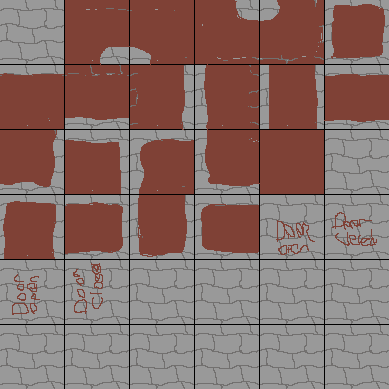
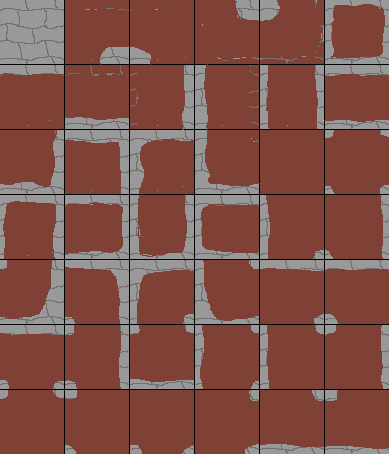
walls!

diff --git a/LD28/src/com/ionprogramming/ld28/level/Map.java b/LD28/src/com/ionprogramming/ld28/level/Map.java
@@ -8,13 +8,232 @@ public class Map {
 
 	public static int[][] map;
 	
-	public static int[][] map1 = new int[][] {{1, 2, 2, 2}, {1, 2, 1, 2}, {2, 2, 2, 2}, {2, 2, 2, 2}};
+	public static int[][] map1 = new int[][] {{0, 1, 1, 0 }, {1, 1, 0, 1}, {0, 1, 0, 1}, {1, 1, 1, 1}};
 	
 	public static void render(Graphics g){
 		for(int y = 0; y < map.length; y++){
 			for(int x = 0; x < map[y].length; x++){
-				g.drawImage(Images.tiles[map[y][x]], x*64, y*64, null);
+				g.drawImage(Images.walls[map[y][x]], x*64, y*64, null);
 			}
 		}
+	}
+	
+	public static int[][] format(int[][] m){
+		boolean t, tl, tr, l, r, b, bl, br;
+		int[][] nm = new int[m.length][m[0].length];
+		for(int y = 0; y < m.length; y++){
+			for(int x = 0; x < m[y].length; x++){
+				if(m[y][x] == 1){
+					t = false;
+					tl = false;
+					tr = false;
+					l = false;
+					r = false;
+					b = false;
+					bl = false;
+					br = false;
+					if(y == 0){
+						t = true;
+						tl = true;
+						tr = true;
+					}
+					else if(m[y - 1][x] == 1){
+						t = true;
+						if(x > 0){
+							if(m[y - 1][x - 1] == 1){
+								tl = true;
+							}
+						}
+						if(x < m[y].length - 1){
+							if(m[y - 1][x + 1] == 1){
+								tr = true;
+							}
+						}
+					}
+					if(y == m.length - 1){
+						b = true;
+						bl = true;
+						br = true;
+					}
+					else if(m[y + 1][x] == 1){
+						b = true;
+						if(x > 0){
+							if(m[y + 1][x - 1] == 1){
+								bl = true;
+							}
+						}
+						if(x < m[y].length - 1){
+							if(m[y + 1][x + 1] == 1){
+								br = true;
+							}
+						}
+					}
+					if(x == 0){
+						l = true;
+						tl = true;
+						bl = true;
+					}
+					else if(m[y][x - 1] == 1){
+						l = true;
+						if(y > 0){
+							if(m[y - 1][x - 1] == 1){
+								tl = true;
+							}
+						}
+						if(y < m.length - 1){
+							if(m[y + 1][x - 1] == 1){
+								bl = true;
+							}
+						}
+					}
+					if(x == m[y].length - 1){
+						r = true;
+						tr = true;
+						br = true;
+					}
+					else if(m[y][x + 1] == 1){
+						r = true;
+						if(y > 0){
+							if(m[y - 1][x + 1] == 1){
+								tr = true;
+							}
+						}
+						if(y < m.length - 1){
+							if(m[y + 1][x + 1] == 1){
+								br = true;
+							}
+						}
+					}
+					
+					if(t && b && l && r && tl && tr && bl && !br){
+						nm[y][x] = 1;
+					}
+					else if(t && b && l && r && tl && tr && !bl && br){
+						nm[y][x] = 2;
+					}
+					else if(t && b && l && r && tl && !tr && bl && br){
+						nm[y][x] = 3;
+					}
+					else if(t && b && l && r && !tl && tr && bl && br){
+						nm[y][x] = 4;
+					}
+					else if(!t && !b && !l && !r){
+						nm[y][x] = 5;
+					}
+					else if(!t && b && l && r && bl && br){
+						nm[y][x] = 6;
+					}
+					else if(t && !b && l && r && tl && tr){
+						nm[y][x] = 7;
+					}
+					else if(t && b && l && !r && tl && bl){
+						nm[y][x] = 8;
+					}
+					else if(t && b && !l && r && tr && br){
+						nm[y][x] = 9;
+					}
+					else if(t && b && !l && !r){
+						nm[y][x] = 10;
+					}
+					else if(!t && !b && l && r){
+						nm[y][x] = 11;
+					}
+					else if(t && !b && l && !r && tl){
+						nm[y][x] = 12;
+					}
+					else if(!t && b && l && !r && bl){
+						nm[y][x] = 13;
+					}
+					else if(!t && b && !l && r && br){
+						nm[y][x] = 14;
+					}
+					else if(t && !b && !l && r && tr){
+						nm[y][x] = 15;
+					}
+					else if(t && b && l && r && tl && tr && bl && br){
+						nm[y][x] = 16;
+					}
+					else if(t && b && l && r && !tl && !tr && !bl && !br){
+						nm[y][x] = 17;
+					}
+					else if(!t && b && !l && !r){
+						nm[y][x] = 18;
+					}
+					else if(!t && !b && l && !r){
+						nm[y][x] = 19;
+					}
+					else if(t && !b && !l && !r){
+						nm[y][x] = 20;
+					}
+					else if(!t && !b && !l && r){
+						nm[y][x] = 21;
+					}
+					else if(t && b && !l && r && tr && !br){
+						nm[y][x] = 22;
+					}
+					else if(t && b && l && !r && tl && !bl){
+						nm[y][x] = 23;
+					}
+					else if(t && !b && l && !r && !tl){
+						nm[y][x] = 24;
+					}
+					else if(!t && b && l && !r && !bl){
+						nm[y][x] = 25;
+					}
+					else if(!t && b && !l && r && !br){
+						nm[y][x] = 26;
+					}
+					else if(t && !b && !l && r && !tr){
+						nm[y][x] = 27;
+					}
+					else if(!t && b && l && r && bl && !br){
+						nm[y][x] = 28;
+					}
+					else if(!t && b && l && r && !bl && br){
+						nm[y][x] = 29;
+					}
+					else if(!t && b && l && r && !bl && !br){
+						nm[y][x] = 30;
+					}
+					else if(t && b && l && !r && !tl && !bl){
+						nm[y][x] = 31;
+					}
+					else if(t && !b && l && r && !tl && !tr){
+						nm[y][x] = 32;
+					}
+					else if(t && b && !l && r && !tr && !br){
+						nm[y][x] = 33;
+					}
+					else if(t && b && !l && r && !tr && br){
+						nm[y][x] = 34;
+					}
+					else if(t && b && l && !r && !tl && bl){
+						nm[y][x] = 35;
+					}
+					else if(t && b && l && r && !tl && !tr && bl && br){
+						nm[y][x] = 36;
+					}
+					else if(t && b && l && r && !tl && tr && !bl && br){
+						nm[y][x] = 37;
+					}
+					else if(t && b && l && r && tl && tr && !bl && !br){
+						nm[y][x] = 38;
+					}
+					else if(t && b && l && r && tl && !tr && bl && !br){
+						nm[y][x] = 39;
+					}
+					else if(t && !b && l && r && tl && !tr){
+						nm[y][x] = 40;
+					}
+					else if(t && !b && l && r && !tl && tr){
+						nm[y][x] = 41;
+					}
+				}
+				else{
+					nm[y][x] = 0;
+				}
+			}
+		}
+		return nm;
 	}
 }

diff --git a/LD28/src/com/ionprogramming/ld28/entities/Entity.java b/LD28/src/com/ionprogramming/ld28/entities/Entity.java
@@ -60,28 +60,28 @@ public class Entity {
 		if(xos == 0 && yos == 0){
 			if(dir == 0){
 				if(ypos > 0){
-					if(Map.map[ypos - 1][xpos] != 1){
+					if(Map.map[ypos - 1][xpos] == 0){
 						yos -= speed;
 					}
 				}
 			}
 			else if(dir == 1){
 				if(xpos < Map.map[0].length - 1){
-					if(Map.map[ypos][xpos + 1] != 1){
+					if(Map.map[ypos][xpos + 1] == 0){
 						xos += speed;
 					}
 				}
 			}
 			else if(dir == 2){
 				if(ypos < Map.map.length - 1){
-					if(Map.map[ypos + 1][xpos] != 1){
+					if(Map.map[ypos + 1][xpos] == 0){
 						yos += speed;
 					}
 				}
 			}
 			else if(dir == 3){
 				if(xpos > 0){
-					if(Map.map[ypos][xpos - 1] != 1){
+					if(Map.map[ypos][xpos - 1] == 0){
 						xos -= speed;
 					}
 				}

diff --git a/LD28/src/com/ionprogramming/ld28/gfx/Images.java b/LD28/src/com/ionprogramming/ld28/gfx/Images.java
@@ -16,6 +16,9 @@ public class Images {
 	public static BufferedImage fontTiles;
 	public static BufferedImage[] font;
 	
+	public static BufferedImage wall;
+	public static BufferedImage[] walls;
+	
 	public static void load() throws IOException{
 		tileImage = ImageIO.read(Images.class.getClassLoader().getResourceAsStream("res/images.png"));
 		tiles = ImageHandler.all(tileImage, 10, 10, 1);
@@ -25,6 +28,9 @@ public class Images {
 		
 		fontTiles = ImageIO.read(Images.class.getClassLoader().getResourceAsStream("res/font.png"));
 		font = ImageHandler.all(fontTiles, 27, 2, 2);
+		
+		wall = ImageIO.read(Images.class.getClassLoader().getResourceAsStream("res/map.png"));
+		walls = ImageHandler.all(wall, 6, 7, 1);
 	}
 	
 }

diff --git a/LD28/src/com/ionprogramming/ld28/level/Levels.java b/LD28/src/com/ionprogramming/ld28/level/Levels.java
@@ -8,7 +8,7 @@ public class Levels {
 	public static void init(int level){
 		if(level == 1){
 			Game.entities.add(new Player(1, 1));
-			Map.map = Map.map1;
+			Map.map = Map.format(Map.map1);
 		}
 	}
 	
